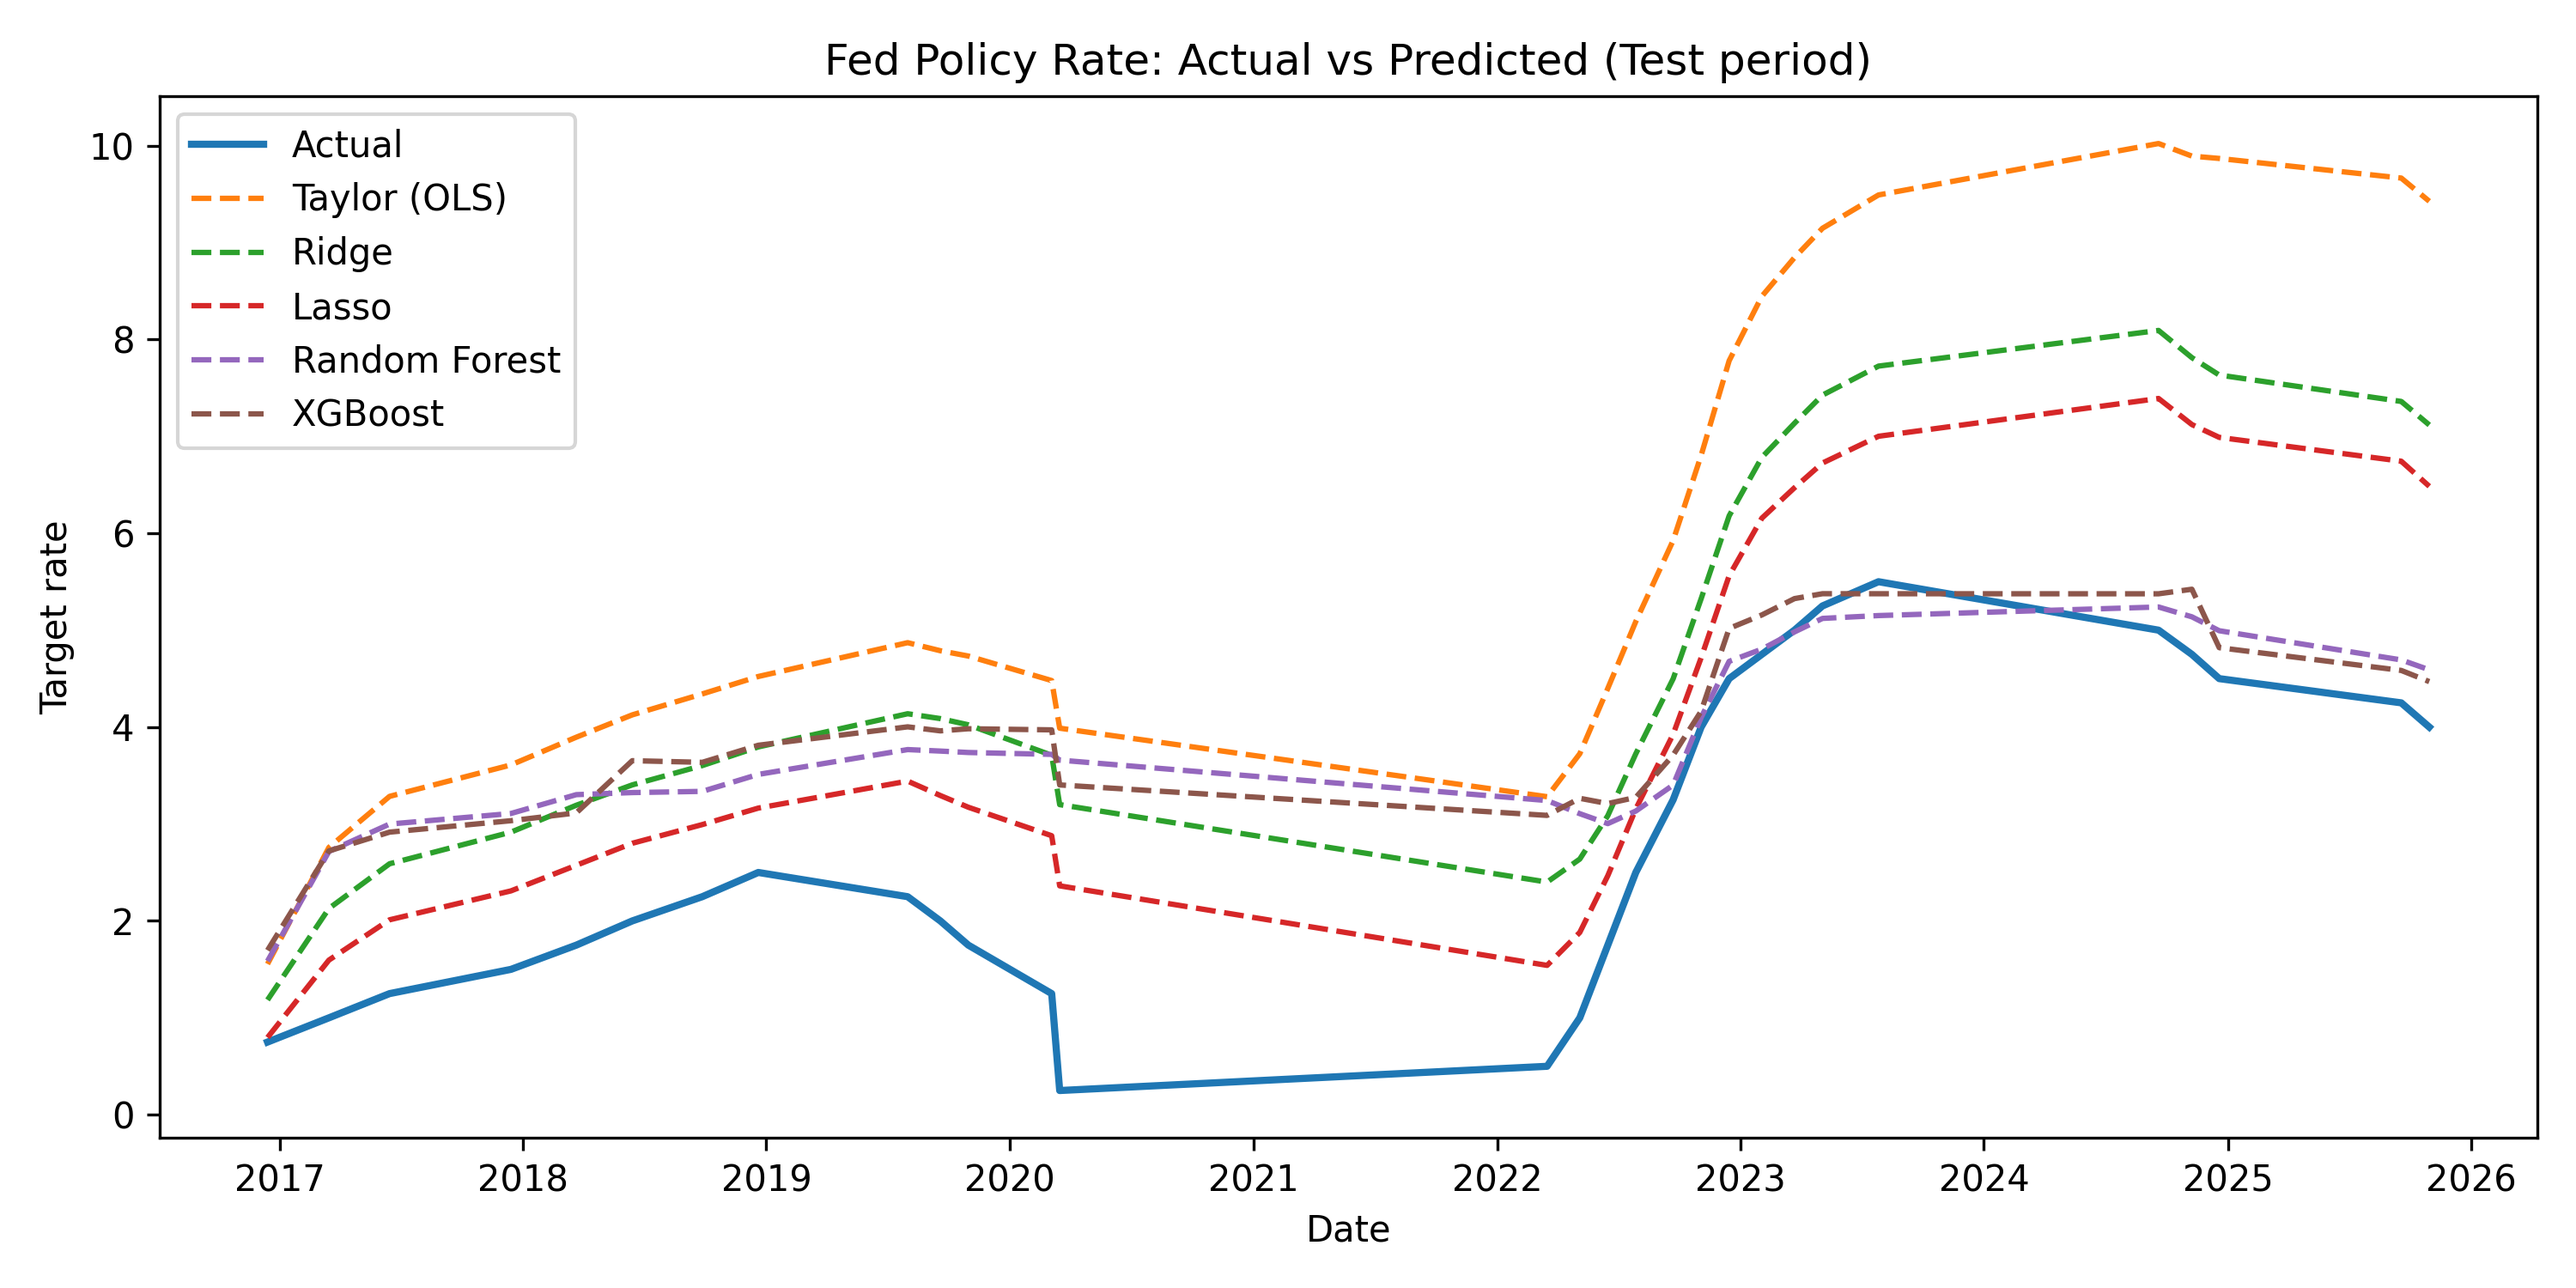
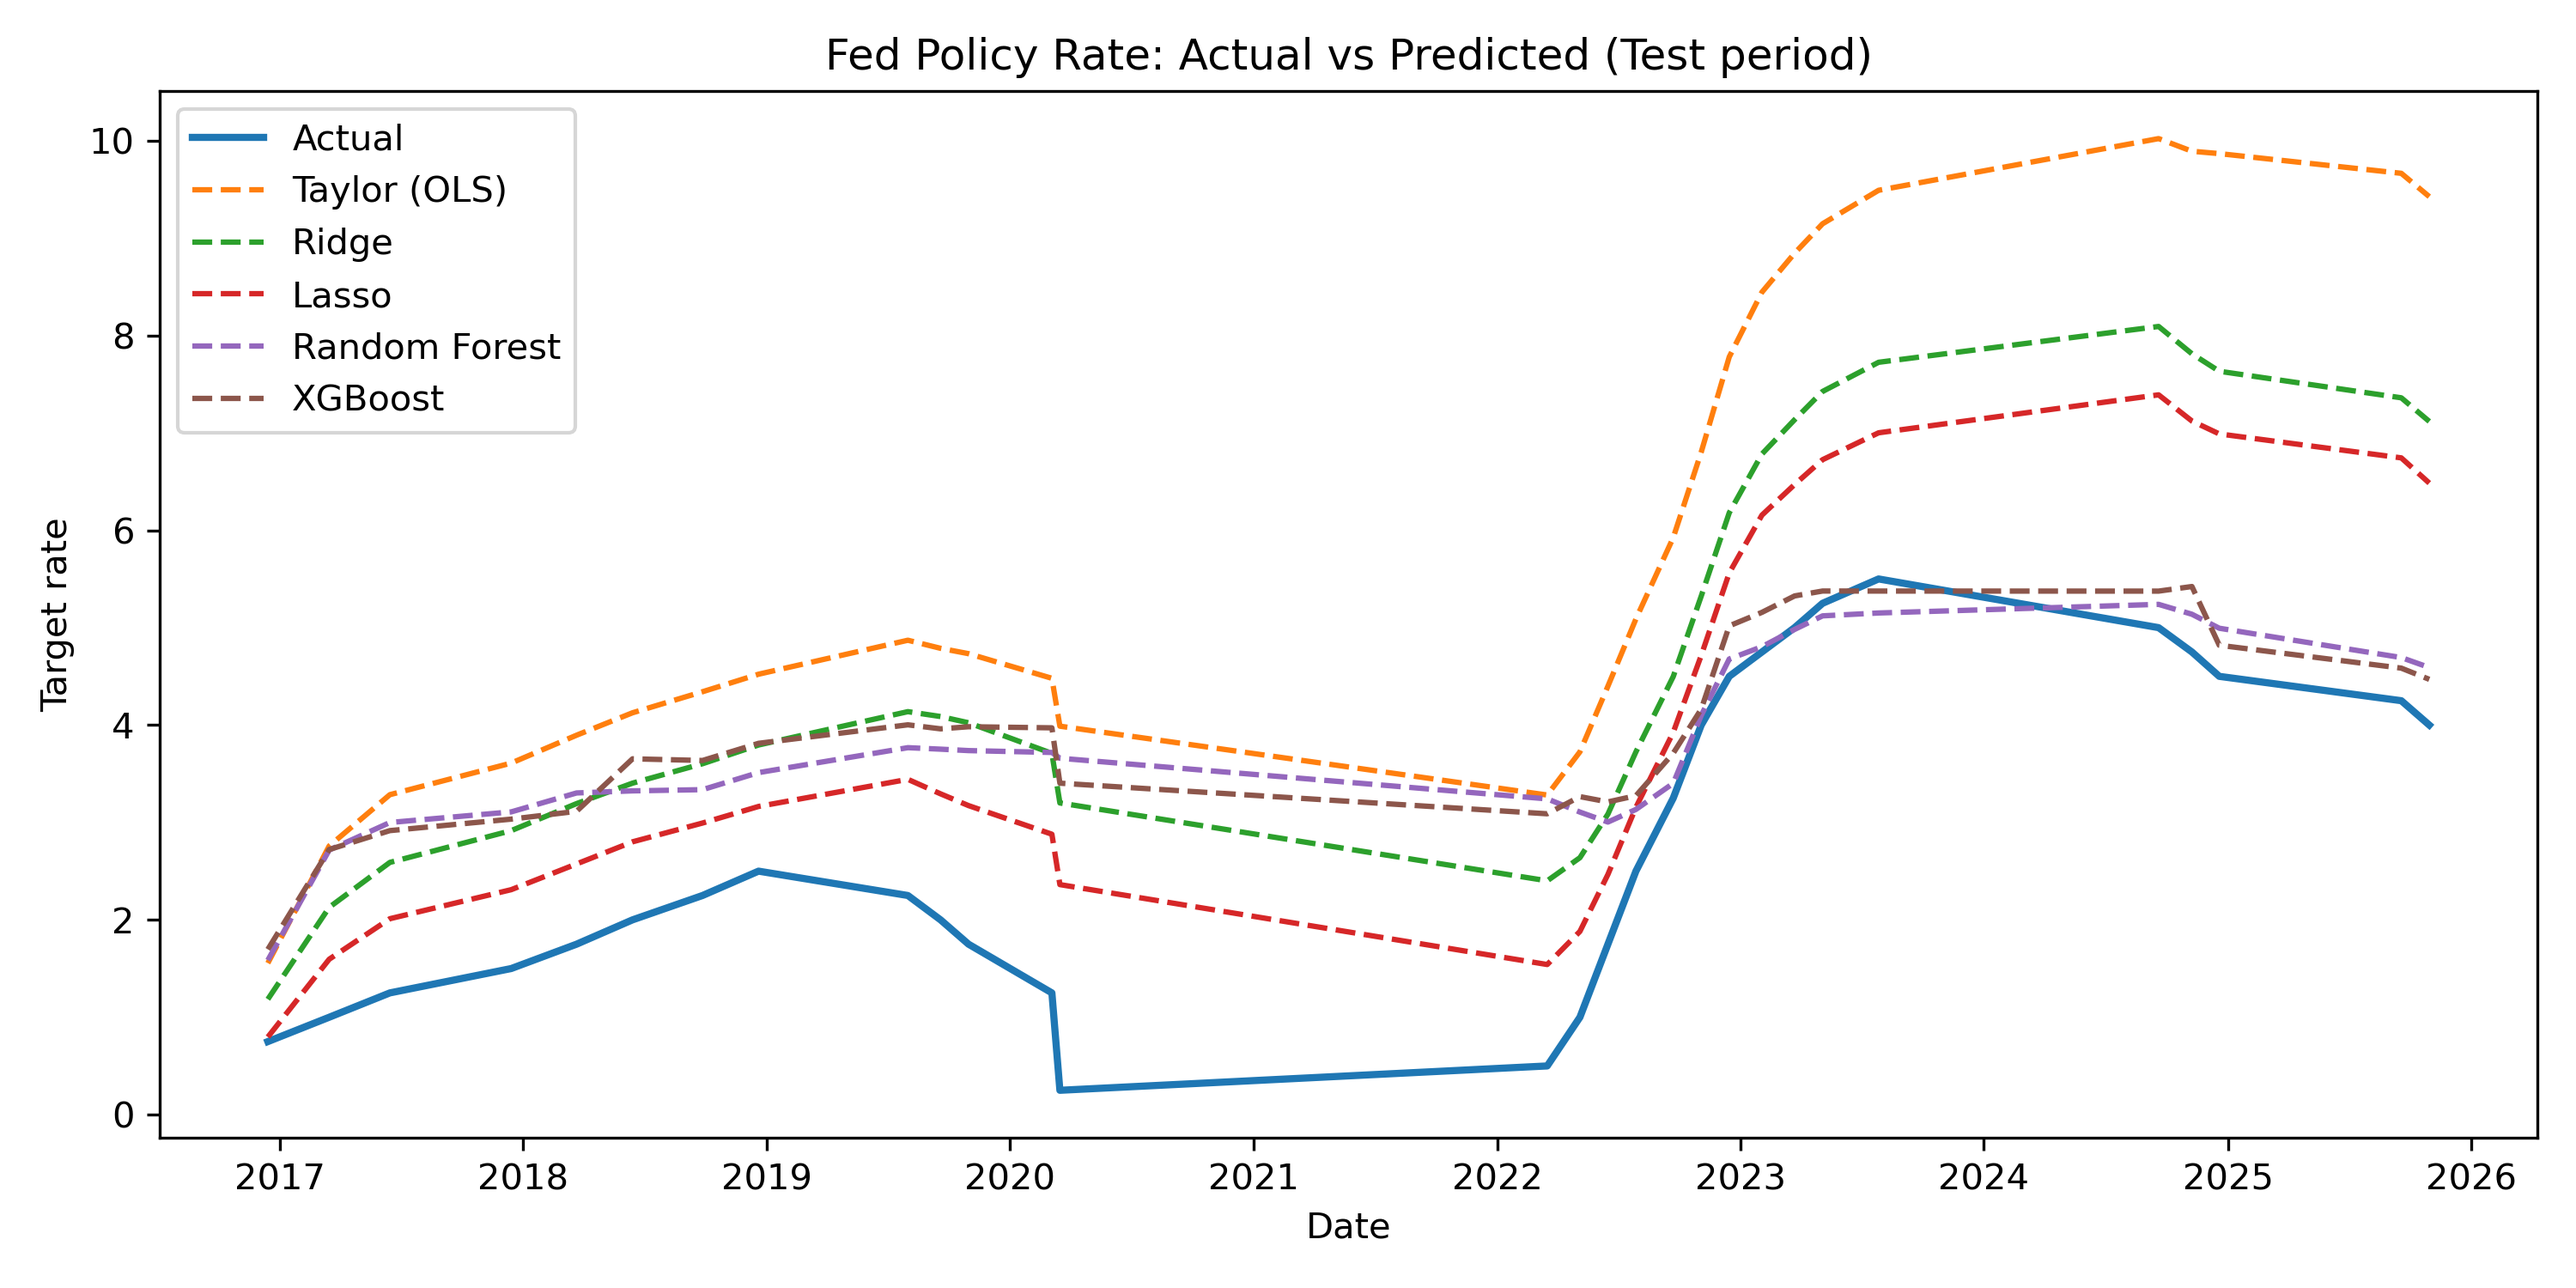
Finalize main execution and update final results

diff --git a/main.py b/main.py
@@ -1,59 +1,149 @@
-from pathlib import Path
-import runpy
 import sys
+import subprocess
+from pathlib import Path
+from datetime import datetime
+
+import pandas as pd
 
 
-# -----------------------
-# Paths
-# -----------------------
 PROJECT_ROOT = Path(__file__).resolve().parent
 PROCESSED_DATA = PROJECT_ROOT / "data" / "processed" / "fomc_ml_dataset.csv"
+RESULTS_DIR = PROJECT_ROOT / "results"
+LOGS_DIR = RESULTS_DIR / "logs"
+MODEL_COMPARISON = RESULTS_DIR / "model_comparison.csv"
 
 
-def run(module_name: str) -> None:
-    """Run a module exactly like: python -m <module_name>"""
-    print(f"\n>>> Running: python -m {module_name}")
-    runpy.run_module(module_name, run_name="__main__")
+def run_step(command, description, log_file):
+    """
+    Run a command quietly (no terminal spam).
+    All stdout/stderr are redirected into a log file.
+    """
+    LOGS_DIR.mkdir(parents=True, exist_ok=True)
+
+    with open(log_file, "w", encoding="utf-8") as f:
+        f.write(f"{description}\n")
+        f.write(f"Command: {' '.join(command)}\n")
+        f.write(f"Timestamp: {datetime.now().isoformat()}\n")
+        f.write("-" * 60 + "\n\n")
+
+        try:
+            subprocess.run(command, check=True, stdout=f, stderr=subprocess.STDOUT)
+        except subprocess.CalledProcessError:
+            print(f"[ERROR] Step failed: {description}")
+            print(f"        See log: {log_file}")
+            sys.exit(1)
+
+    print(f"[OK] {description}")
 
 
-def main() -> None:
-    print("=== Fed Policy ML Project: main.py ===")
+def pick_winner():
+    """
+    Winner = model with the lowest rmse_test in results/model_comparison.csv
+    """
+    if not MODEL_COMPARISON.exists():
+        print("[ERROR] results/model_comparison.csv not found. Cannot pick a winner.")
+        sys.exit(1)
 
-    # 1) Build / refresh processed ML dataset
+    df = pd.read_csv(MODEL_COMPARISON)
+    if "rmse_test" not in df.columns or "model" not in df.columns:
+        print("[ERROR] model_comparison.csv does not have expected columns (model, rmse_test).")
+        sys.exit(1)
+
+    df["rmse_test"] = pd.to_numeric(df["rmse_test"], errors="coerce")
+    df["r2_test"] = pd.to_numeric(df.get("r2_test", pd.NA), errors="coerce")
+    df = df.dropna(subset=["rmse_test"]).sort_values("rmse_test", ascending=True)
+
+    best = df.iloc[0]
+    best_model = str(best["model"])
+    best_rmse = float(best["rmse_test"])
+    best_r2 = float(best["r2_test"]) if pd.notna(best["r2_test"]) else float("nan")
+    return best_model, best_rmse, best_r2
+
+
+def main():
+    print("=" * 60)
+    print("Fed Policy ML Project — Model Comparison")
+    print("=" * 60)
+    print()
+
+    # 1) Data check
+    print("1) Data check")
     if not PROCESSED_DATA.exists():
-        print(f"\n[INFO] Processed dataset not found: {PROCESSED_DATA}")
-        print("[INFO] Building dataset via feature builder...")
-        run("src.features.feature_builder")
+        print("[ERROR] Processed dataset not found:")
+        print(f"        {PROCESSED_DATA}")
+        print("        (Generate it first with your feature pipeline.)")
+        sys.exit(1)
+    print("[OK] Found processed dataset")
+    print()
+
+    # 2) Baselines
+    print("2) Baseline models")
+    run_step(
+        ["python", "-m", "src.models.train_baselines"],
+        "Train Ridge + Lasso",
+        LOGS_DIR / "02_train_baselines.txt",
+    )
+    run_step(
+        ["python", "-m", "src.models.taylor_rule"],
+        "Train Taylor Rule (OLS)",
+        LOGS_DIR / "02_train_taylor_rule.txt",
+    )
+    print()
+
+    # 3) Ensembles
+    print("3) Ensemble models")
+    run_step(
+        ["python", "-m", "src.models.train_ensemble"],
+        "Train Random Forest + XGBoost",
+        LOGS_DIR / "03_train_ensemble.txt",
+    )
+    print()
+
+    # 4) Summary table + winner
+    print("4) Evaluation and comparison")
+    run_step(
+        ["python", "-m", "src.evaluation.summary_table"],
+        "Build model_comparison.csv",
+        LOGS_DIR / "04_summary_table.txt",
+    )
+
+    best_model, best_rmse, best_r2 = pick_winner()
+
+    print()
+    print("-" * 60)
+    print("Best model (lowest Test RMSE)")
+    if best_r2 == best_r2:  # not NaN
+        print(f"{best_model}  |  Test RMSE: {best_rmse:.3f}  |  Test R2: {best_r2:.3f}")
     else:
-        print(f"\n[OK] Found processed dataset: {PROCESSED_DATA}")
+        print(f"{best_model}  |  Test RMSE: {best_rmse:.3f}")
+    print("-" * 60)
+    print()
 
-    # 2) Train baseline models
-    run("src.models.train_baselines")
+    # 5) Plots
+    print("5) Plots")
+    run_step(
+        ["python", "-m", "src.evaluation.plot_predictions"],
+        "Generate prediction plots",
+        LOGS_DIR / "05_plot_predictions.txt",
+    )
+    print()
 
-    # 3) Train ensemble models
-    run("src.models.train_ensemble")
+    # 6) Leakage diagnostics
+    print("6) Leakage diagnostics")
+    run_step(
+        ["python", "-m", "src.evaluation.leakage_check"],
+        "Run leakage check (heuristic)",
+        LOGS_DIR / "06_leakage_check.txt",
+    )
+    print()
 
-    # 4) Build final comparison table
-    run("src.evaluation.summary_table")
-
-    # 5) Generate prediction plots
-    run("src.evaluation.plot_predictions")
-
-    # 6) Leakage check (optional but good)
-    try:
-        run("src.evaluation.leakage_check")
-    except Exception as e:
-        print(f"[WARN] Leakage check failed (not blocking): {e}")
-
-    print("\n=== DONE ===")
-    print("Outputs saved in:")
+    print("Done.")
+    print("Outputs:")
     print(" - results/")
+    print(" - results/logs/ (detailed outputs)")
     print(" - data/processed/")
+    print("=" * 60)
 
 
 if __name__ == "__main__":
-    try:
-        main()
-    except Exception as err:
-        print(f"\n[ERROR] main.py failed: {err}")
-        sys.exit(1)
+    main()
